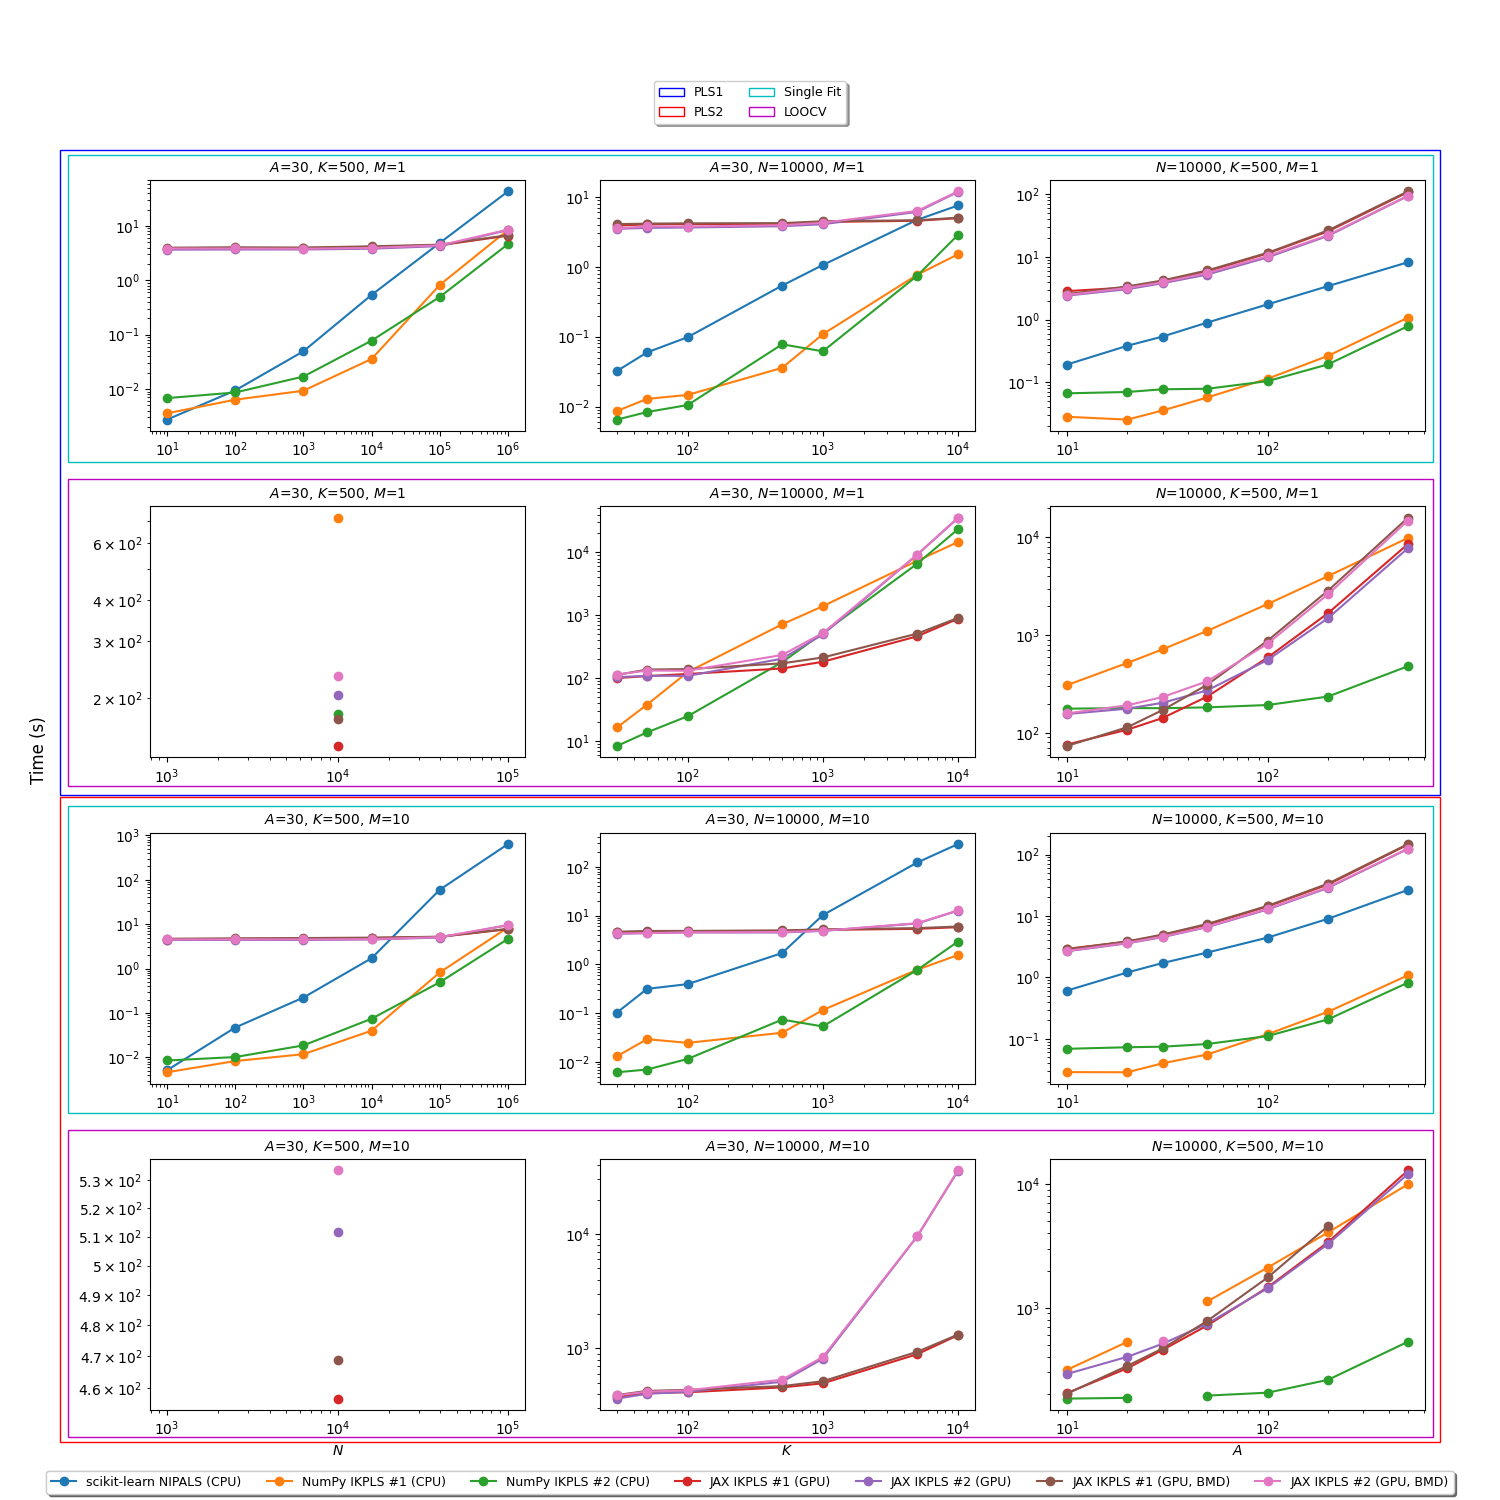
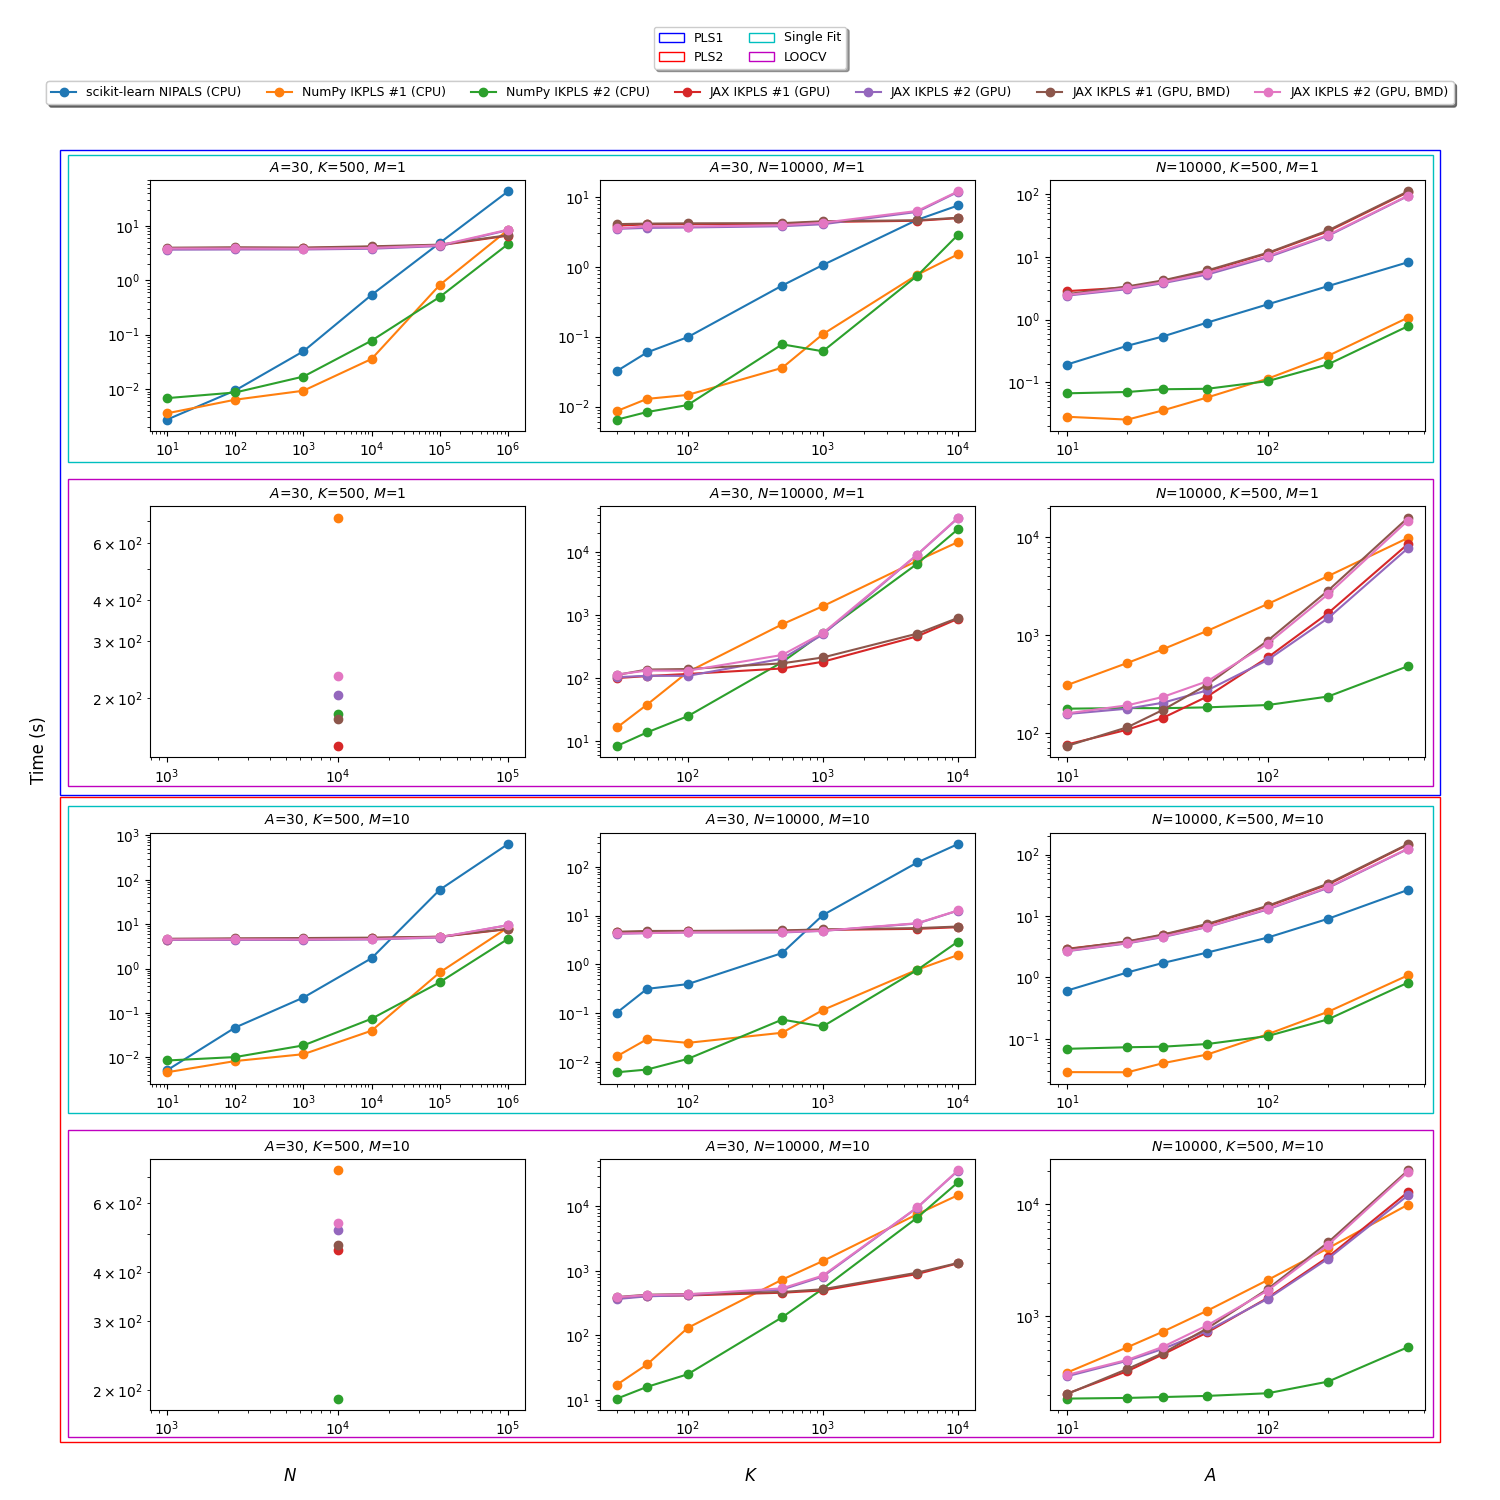
Paper and timings update

diff --git a/plot_timings.py b/plot_timings.py
@@ -268,16 +268,16 @@ if __name__ == "__main__":
 
     
     fig.supylabel("Time (s)")
+    space = " "*85
+    fig.supxlabel("$N$" + space + "$K$" + space + "$A$")
     # axs[0, 0].twiny().set_xlabel("Time vs. N")
     # axs[0, 1].twiny().set_xlabel("Time vs. K")
     # axs[0, 2].twiny().set_xlabel("Time vs. A")
-    axs[3, 0].set_xlabel("$N$")
-    axs[3, 1].set_xlabel("$K$")
-    axs[3, 2].set_xlabel("$A$")
+    # axs[3, 0].set_xlabel("$N$")
+    # axs[3, 1].set_xlabel("$K$")
+    # axs[3, 2].set_xlabel("$A$")
     handles, labels = axs[0, 0].get_legend_handles_labels()
     
-    first_legend = fig.legend(handles, labels, loc='lower center', fancybox=True, shadow=True, ncol=len(labels), prop={'size': 9})
-    ax = plt.gca().add_artist(first_legend)
 
     rect1 = patches.Rectangle((0.04, 0.47), 0.92, 0.43, transform=fig.transFigure, linewidth=1, edgecolor='b', facecolor='none')
     rect2 = patches.Rectangle((0.04, 0.039), 0.92, 0.43, transform=fig.transFigure, linewidth=1, edgecolor='r', facecolor='none')
@@ -288,7 +288,10 @@ if __name__ == "__main__":
     rect21 = patches.Rectangle((0.045, 0.258), 0.91, 0.205, transform=fig.transFigure, linewidth=1, edgecolor='c', facecolor='none')
     rect22 = patches.Rectangle((0.045, 0.042), 0.91, 0.205, transform=fig.transFigure, linewidth=1, edgecolor='m', facecolor='none')
 
-    plt.legend(handles=[rect1, rect2, rect11, rect12], labels=["PLS1", "PLS2", "Single Fit", "LOOCV"], loc='upper center', fancybox=True, shadow=True, ncol=2, prop={'size': 9}, bbox_to_anchor=(0.5, 0.95), bbox_transform=plt.gcf().transFigure)
+    first_legend = fig.legend(handles, labels, loc='upper center', fancybox=True, shadow=True, ncol=len(labels), prop={'size': 9}, bbox_to_anchor=(0.5, 0.95), bbox_transform=plt.gcf().transFigure)
+    ax = plt.gca().add_artist(first_legend)
+    plt.legend(handles=[rect1, rect2, rect11, rect12], labels=["PLS1", "PLS2", "Single Fit", "LOOCV"], loc='lower center', fancybox=True, shadow=True, ncol=2, prop={'size': 9}, bbox_to_anchor=(0.5, 0.95), bbox_transform=plt.gcf().transFigure)
+
 
     fig.patches.extend([rect1, rect2, rect11, rect12, rect21, rect22])
     # fig.tight_layout()

diff --git a/paper/paper.md b/paper/paper.md
@@ -1,5 +1,6 @@
 ---
 title: 'Improved Kernel Partial Least Squares for Python: Fast CPU and GPU Implementations with NumPy and JAX'
+license: Apache-2.0
 tags:
   - Python
   - PLS
@@ -63,7 +64,7 @@ Fitting a PLS model consists exclusively of matrix and vector operations. Theref
 
 # Benchmarks
 
-This section offers a comparison of the execution times of the `ikpls` implementations with scikit-learn's NIPALS implementation. The comparisons are made with varying shapes for $\mathbf{X}$ and $\mathbf{Y}$ and varying number of components, $A$. Additionally, the comparisons are made using just a single fit and using leave-one-out cross-validation. For the sake of estimating the execution time in a realistic scenario, the mean squared error and the number of components that minimizes this error are computed during cross-validation and returned hereafter for subsequent analysis by the user. The execution times reported for the JAX implementations include the time spent compiling the instructions and sending the input data to the GPU on which the cross validation is computed. When cross-validating with the NumPy CPU implementations, we use 32 parallel jobs corresponding to one for each thread on the CPU that we used.
+This section offers a comparison of the execution times of the `ikpls` implementations with scikit-learn's NIPALS implementation. The comparisons are made with varying shapes for $\mathbf{X}$ and $\mathbf{Y}$ and varying number of components, $A$. Additionally, the comparisons are made using just a single fit and using leave-one-out cross-validation. For the sake of estimating the execution time in a realistic scenario, the mean squared error and the number of components that minimizes this error are computed during cross-validation and returned hereafter for subsequent analysis by the user. The execution times reported for the JAX implementations include the time spent compiling the instructions and sending the input data to the GPU on which the cross validation is computed. While some sources on the internet claim that JAX is faster than NumPy on CPU we did not find that to be the case for our scenarios. Therefore, we exclusively test the JAX implementations on GPU. When cross-validating with the NumPy CPU implementations and scikit-learn's NIPALS, we use 32 parallel jobs corresponding to one for each thread on the CPU that we used.
 
 The benchmarks use randomly generated data. The random seed is fixed such that all implementations are given the same random data. The default parameters for the benchmarks are $N=10,000$, $K=500$, and $A=30$. We benchmark using both a single target variable $M=1$ and multiple target variables with $M=10$. PLS with $M=1$ is commonly referred to as PLS1 and PLS2 with $M>1$
 
@@ -91,6 +92,6 @@ Cross-validating PLS algorithms has an inherent redundant structure. Each cross-
 
 # Acknowledgements
 
-This work is part of an industrial Ph.D. project receiving funding from FOSS Analytical A/S and The Innovation Fund Denmark. Grant Number: 1044-00108B.
+This work is part of an industrial Ph.D. project receiving funding from FOSS Analytical A/S and The Innovation Fund Denmark. Grant Number: 1044-00108B. Neither FOSS Analytical A/S nor The Innovation Fund Denmark have affec
 
 # References
